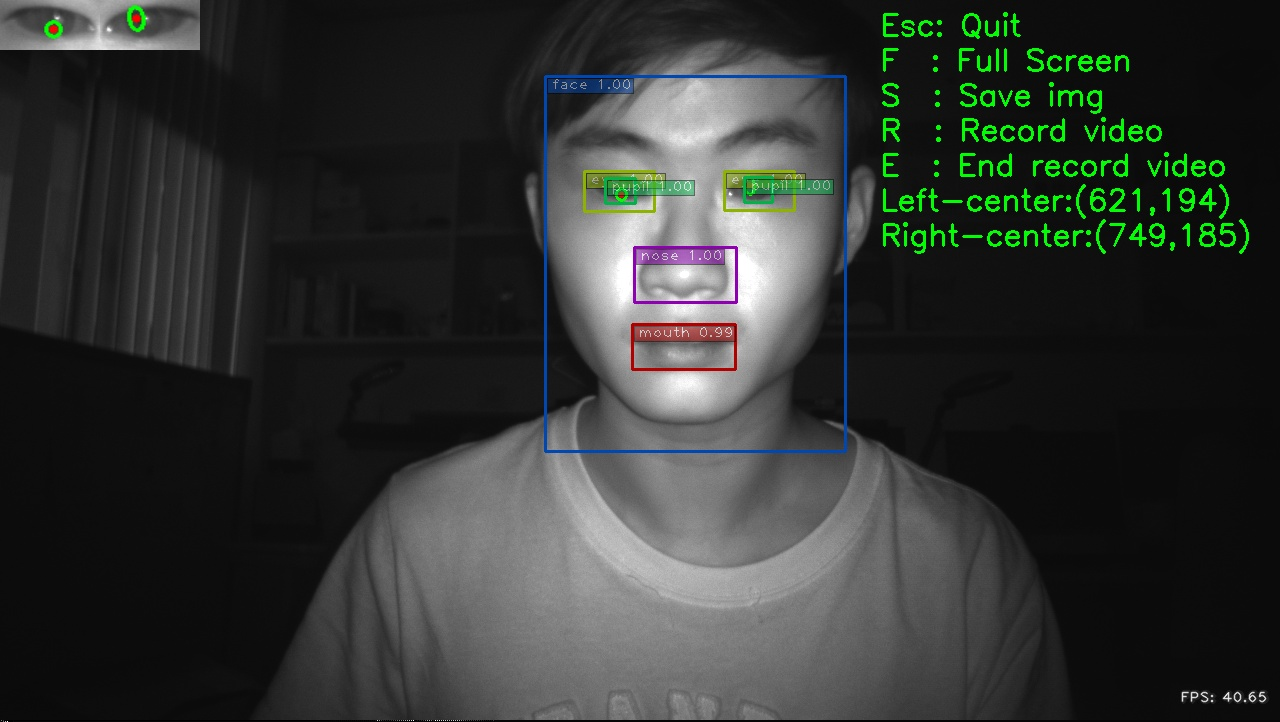
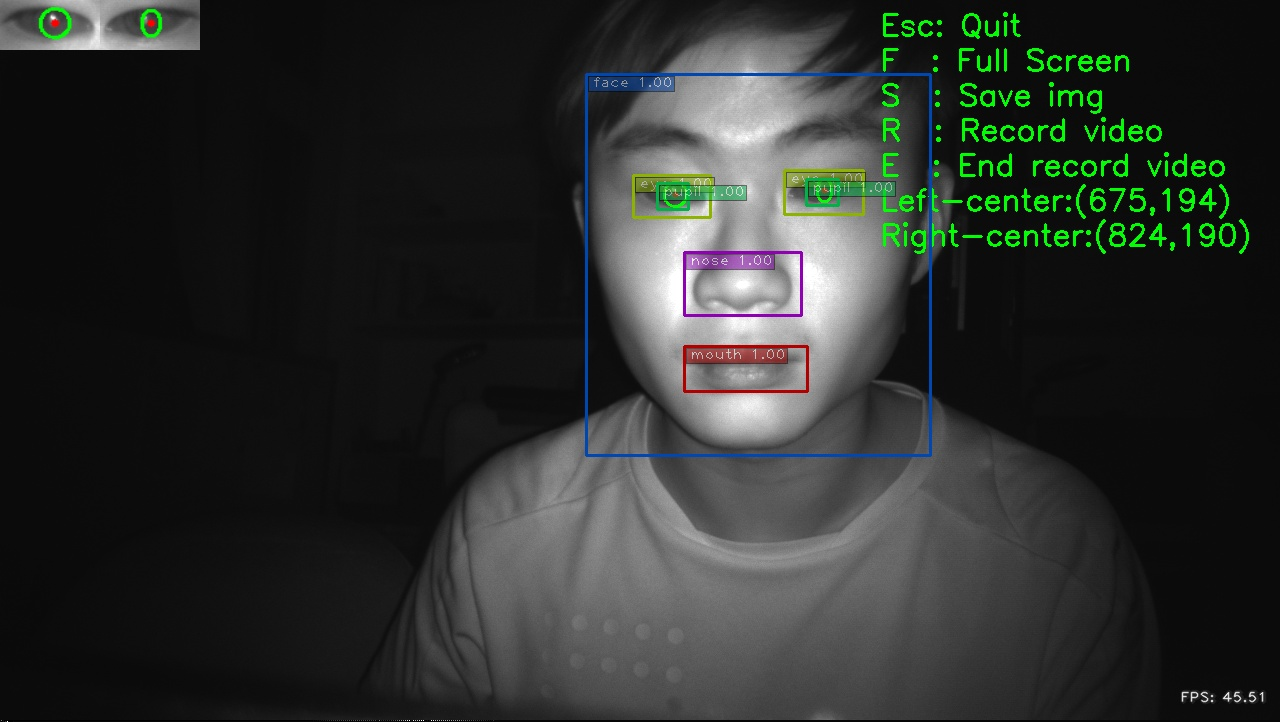
phase 1 to 3

diff --git a/backup/trt_yolo.py b/backup/trt_yolo.py
@@ -79,22 +79,6 @@ def affineMatrix_eye(img, boxes, landmarks, scale=2.5):
 
     return align_eye 
 
-def pupil_fit(img,pupil,flag_list):
-    #(Gray,Binary,Morphological,Gaussian blur,Sobel,Canny,Find contours)
-    margin = 0
-    input_eye_img = img[pupil[1]-margin:pupil[3]+margin,pupil[0]-margin:pupil[2]+margin,:]
-    elPupilThresh = find_max_Thresh(input_eye_img,flag_list)
-    if elPupilThresh != None:
-        # update elPupilThresh into golbal image
-        center = (int(elPupilThresh[0][0] + pupil[0]), int(elPupilThresh[0][1] + pupil[1]))
-        new_elPupilThresh_left = (center,elPupilThresh[1],elPupilThresh[2])
-        cv2.ellipse(img, new_elPupilThresh_left, (0, 255, 0), 2)
-        cv2.circle(img, center, 3, (0, 0, 255), -1)
-        # resize image into top left corner
-        return center
-    else:
-        return 0
-
 def loop_and_detect(cam, trt_yolo, mtcnn, conf_th, vis):
     """Continuously capture images from camera and do object detection.
 
@@ -118,7 +102,7 @@ def loop_and_detect(cam, trt_yolo, mtcnn, conf_th, vis):
     eye_w_roi = 100
     eye_h_roi = 50
     face_roi = 200
-    driver_face_roi = [0,cam.img_width,0,cam.img_height]
+    head_upper = 0
     #------ put txt ------
     base_txt_height = 35
     gap_txt_height = 35
@@ -128,7 +112,6 @@ def loop_and_detect(cam, trt_yolo, mtcnn, conf_th, vis):
     right_eye_img = cv2.resize(right_eye_img,(eye_w_roi,eye_h_roi))
     left_eye_img = cv2.imread("./test_image/eye/2.png")  
     left_eye_img = cv2.resize(left_eye_img,(eye_w_roi,eye_h_roi))
-    
     #------ record/save ------
     save_cnt = 0
     start_record_f = 0
@@ -174,40 +157,19 @@ def loop_and_detect(cam, trt_yolo, mtcnn, conf_th, vis):
         next_txt_height += gap_txt_height
 
         # ------- Main Algorithm ------
-        face_max = 0
-        eye_right = []
-        eye_left  = []
-        pupil_left = []
-        pupil_right = []
-        # find driver face
+        bb_eye_list = []
+        bb_pupil_list = []
         for bb, cf, cl in zip(boxes, confs, clss):
+            if cl == 0:
+                bb_eye_list.append(bb)
+            if cl == 1:
+                bb_pupil_list.append(bb)
+            if cl == 2:
+                nose_center_point = (bb[0]+(bb[2]-bb[0])/2,bb[1]+(bb[3]-bb[1])/2)
+            if cl == 3:
+                mouse_center_point = (bb[0]+(bb[2]-bb[0])/2,bb[1]+(bb[3]-bb[1])/2)
             if cl == 4:
-                face_area = (bb[2] - bb[0])*(bb[3] - bb[1])
-                if(face_area > face_max) :
-                    face_max = face_area
-                    driver_face_roi = bb
-        # find all boundary of face
-        for bb, cf, cl in zip(boxes, confs, clss):
-            #bb_min_x,bb_min_y,bb_max_x,bb_max_y = bb
-            center = (bb[0]+(bb[2]-bb[0])/2,bb[1]+(bb[3]-bb[1])/2)
-            if (center[0] > driver_face_roi[0] and center[0] < driver_face_roi[2]) \
-            and (center[1] > driver_face_roi[1] and center[1] < driver_face_roi[3]):
-                if cl == 0 and bb[3] < nose_center_point[1]:
-                    if (center[0] < nose_center_point[0] or center[0] < mouse_center_point[0]):
-                        eye_left = bb
-                    else:
-                        eye_right = bb
-                if cl == 1 and bb[3] < nose_center_point[1]:
-                    if (center[0] < nose_center_point[0]
-                    or center[0] < mouse_center_point[0]):
-                        pupil_left = bb
-                    else :
-                        pupil_right = bb
-                if cl == 2 :
-                    nose_center_point = center
-                if cl == 3:
-                    mouse_center_point = center
-
+                head_upper = bb[1] ;   
 
         # # ------ MTCNN ------\
         # dets, landmarks = mtcnn.detect(img, minsize=40)
@@ -229,23 +191,76 @@ def loop_and_detect(cam, trt_yolo, mtcnn, conf_th, vis):
         # Sorted 
         # bb_eye_list = sorted(bb_eye_list, key=lambda x: x[0])
         # bb_pupil_list = sorted(bb_pupil_list, key=lambda x: x[0])
-        
+
         # To find the eye roi
         flag_list = [1,1,1,1,1,1,1]
-        # pupil left
-        if len(pupil_left) > 0:
-            left_center = pupil_fit(img,pupil_left,flag_list)
-        # pupil right
-        if len(pupil_right) > 0:
-            right_center = pupil_fit(img,pupil_right,flag_list)
-        if len(eye_left) > 0:
-            # print("eye_left",eye_left)
-            left_eye_img = img[eye_left[1]:eye_left[3],eye_left[0]:eye_left[2],:]
-            left_eye_img = cv2.resize(left_eye_img,(eye_w_roi,eye_h_roi))
-        if len(eye_right) > 0:
-            # print("eye_right",eye_right)
-            right_eye_img = img[eye_right[1]:eye_right[3],eye_right[0]:eye_right[2],:]
-            right_eye_img = cv2.resize(right_eye_img,(eye_w_roi,eye_h_roi))
+        for i in range(len(bb_eye_list)):
+            x_min, y_min, x_max, y_max = bb_eye_list[i][0], \
+                bb_eye_list[i][1], bb_eye_list[i][2], bb_eye_list[i][3]
+            # center eye roi from yolo-detection
+            cen_eye = (x_min+(x_max - x_min)/2,y_min+(y_max - y_min)/2)
+
+            # print("number of eye index:",i)
+            # print("center of class nose x:", nose_center_point[0])
+            # print("center of class mouse x:", mouse_center_point[0])
+            # print("center of class eye x:", cen_eye[0])
+
+            # using nose and mouse center to determine left or right region of eye
+            if(cen_eye[0] < nose_center_point[0] or cen_eye[0] < mouse_center_point[0]
+               and cen_eye[1] < nose_center_point[1] and cen_eye[1] > head_upper):
+                left_eye_img = img[y_min:y_max,x_min:x_max,:]
+                input_left_eye_img = left_eye_img
+                # determine input image
+                for i in range(len(bb_pupil_list)):
+                    x1_min, y1_min, x1_max, y1_max = bb_pupil_list[i][0], \
+                        bb_pupil_list[i][1], bb_pupil_list[i][2], bb_pupil_list[i][3]
+                    cen_eye = (x1_min+(x1_max - x1_min)/2,y1_min+(y1_max - y1_min)/2)
+                    # if center of pupil in the region of eye, then change input image
+                    if(cen_eye[0] < x_max and cen_eye[0] > x_min 
+                       and cen_eye[1] < y_max and cen_eye[1] > y_min):
+                        input_left_eye_img = img[y1_min:y1_max,x1_min:x1_max,:]
+                        x_min, y_min, x_max, y_max = x1_min, y1_min, x1_max, y1_max
+                        
+                
+                #(Gray,Binary,Morphological,Gaussian blur,Sobel,Canny,Find contours)
+                elPupilThresh_left = find_max_Thresh(input_left_eye_img,flag_list)
+                if elPupilThresh_left != None:
+                    # update elPupilThresh into golbal image
+                    center = (int(elPupilThresh_left[0][0] + x_min), int(elPupilThresh_left[0][1] + y_min))
+                    new_elPupilThresh_left = (center,elPupilThresh_left[1],elPupilThresh_left[2])
+                    cv2.ellipse(img, new_elPupilThresh_left, (0, 255, 0), 2)
+                    cv2.circle(img, center, 3, (0, 0, 255), -1)
+                    left_center = center
+                # resize image into top left corner
+                left_eye_img = cv2.resize(left_eye_img,(eye_w_roi,eye_h_roi))
+
+            elif(cen_eye[0] > nose_center_point[0] or cen_eye[0] > mouse_center_point[0]
+                 and cen_eye[1] < nose_center_point[1] and cen_eye[1] > head_upper):
+                right_eye_img = img[y_min:y_max,x_min:x_max,:]
+                input_right_eye_img = right_eye_img
+                # determine input image
+                for i in range(len(bb_pupil_list)):
+                    x1_min, y1_min, x1_max, y1_max = bb_pupil_list[i][0], \
+                        bb_pupil_list[i][1], bb_pupil_list[i][2], bb_pupil_list[i][3]
+                    cen_eye = (x1_min+(x1_max - x1_min)/2,y1_min+(y1_max - y1_min)/2)
+                    # if center of pupil in the region of eye, then change input image
+                    if(cen_eye[0] < x_max and cen_eye[0] > x_min 
+                       and cen_eye[1] < y_max and cen_eye[1] > y_min):
+                        input_right_eye_img = img[y1_min:y1_max,x1_min:x1_max,:]
+                        x_min, y_min, x_max, y_max = x1_min, y1_min, x1_max, y1_max
+                
+                #(Gray,Binary,Morphological,Gaussian blur,Sobel,Canny,Find contours)
+                elPupilThresh_right = find_max_Thresh(input_right_eye_img,flag_list)
+                if elPupilThresh_right != None:
+                    # update elPupilThresh into golbal image
+                    center = (int(elPupilThresh_right[0][0] + x_min), int(elPupilThresh_right[0][1] + y_min))
+                    new_elPupilThresh_right = (center,elPupilThresh_right[1],elPupilThresh_right[2])
+                    cv2.ellipse(img, new_elPupilThresh_right, (0, 255, 0), 2)
+                    cv2.circle(img, center, 3, (0, 0, 255), -1)
+                    right_center = center
+
+                # resize image into top left corner
+                right_eye_img = cv2.resize(right_eye_img,(eye_w_roi,eye_h_roi))
 
         # update eye image
         img[0:eye_h_roi,0:eye_w_roi,:] = left_eye_img
@@ -260,6 +275,7 @@ def loop_and_detect(cam, trt_yolo, mtcnn, conf_th, vis):
         cv2.putText(img,content,(cam.img_width-len_width,next_txt_height),
                     cv2.FONT_HERSHEY_SIMPLEX, 1, (0, 255, 0), 2)
         next_txt_height += gap_txt_height
+
 
         # end my self code
         # ---------------------------------------------
